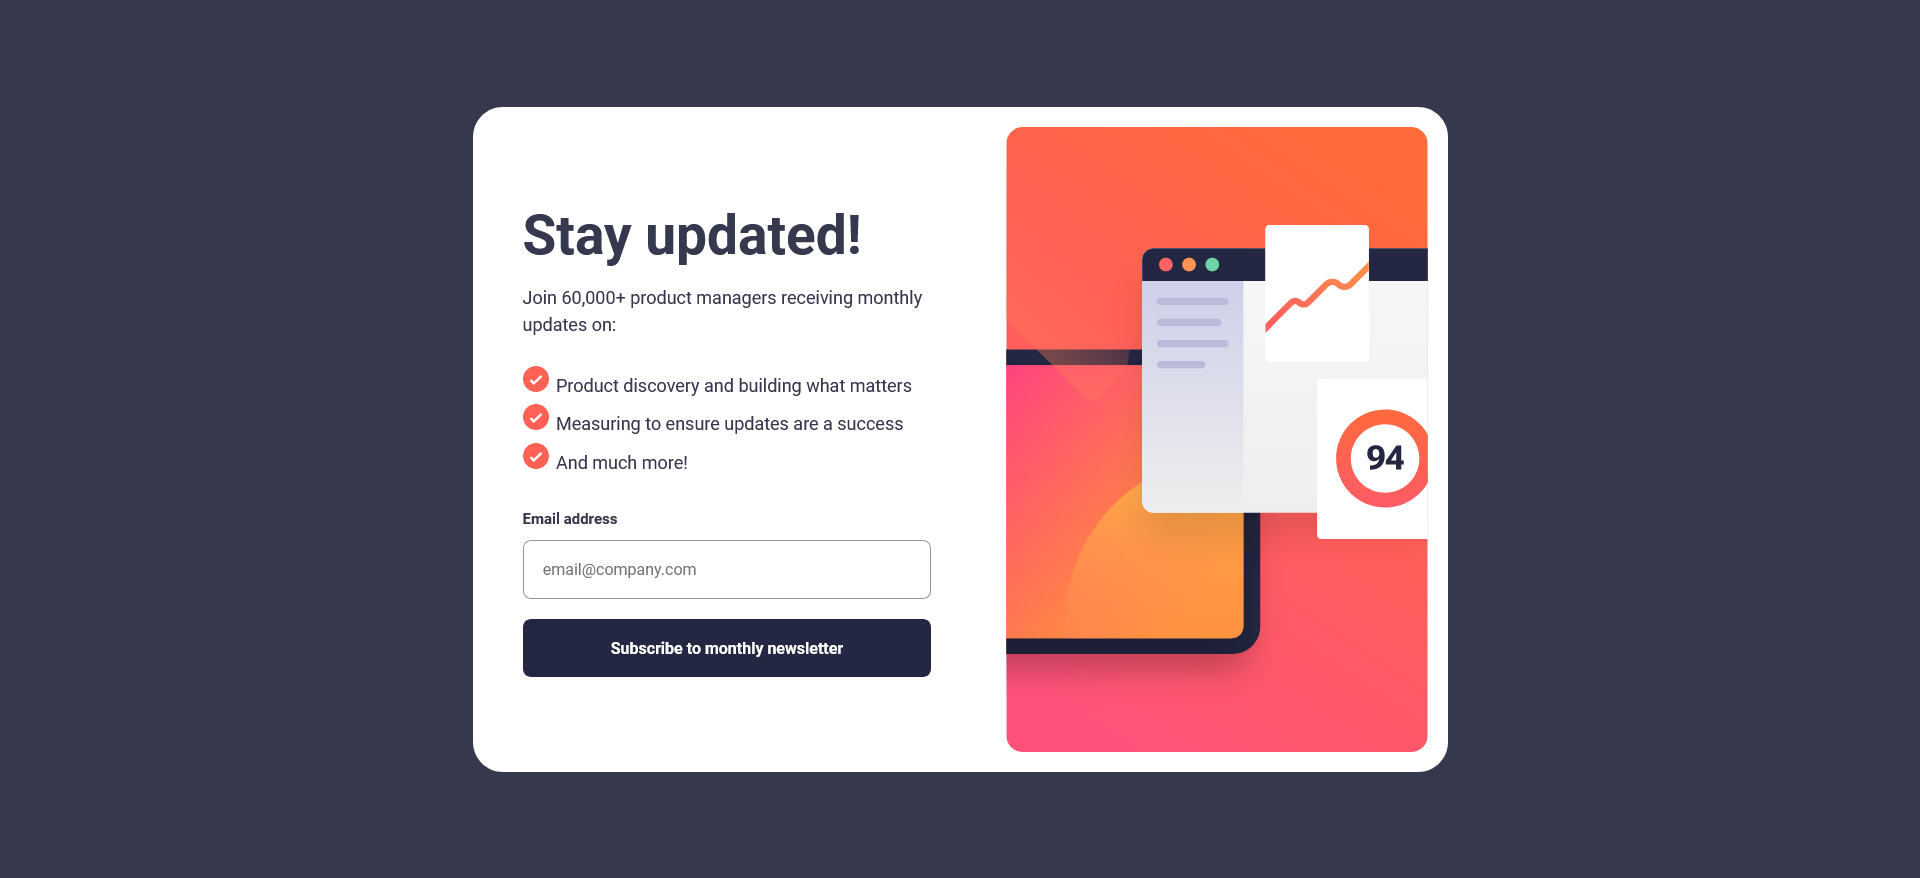
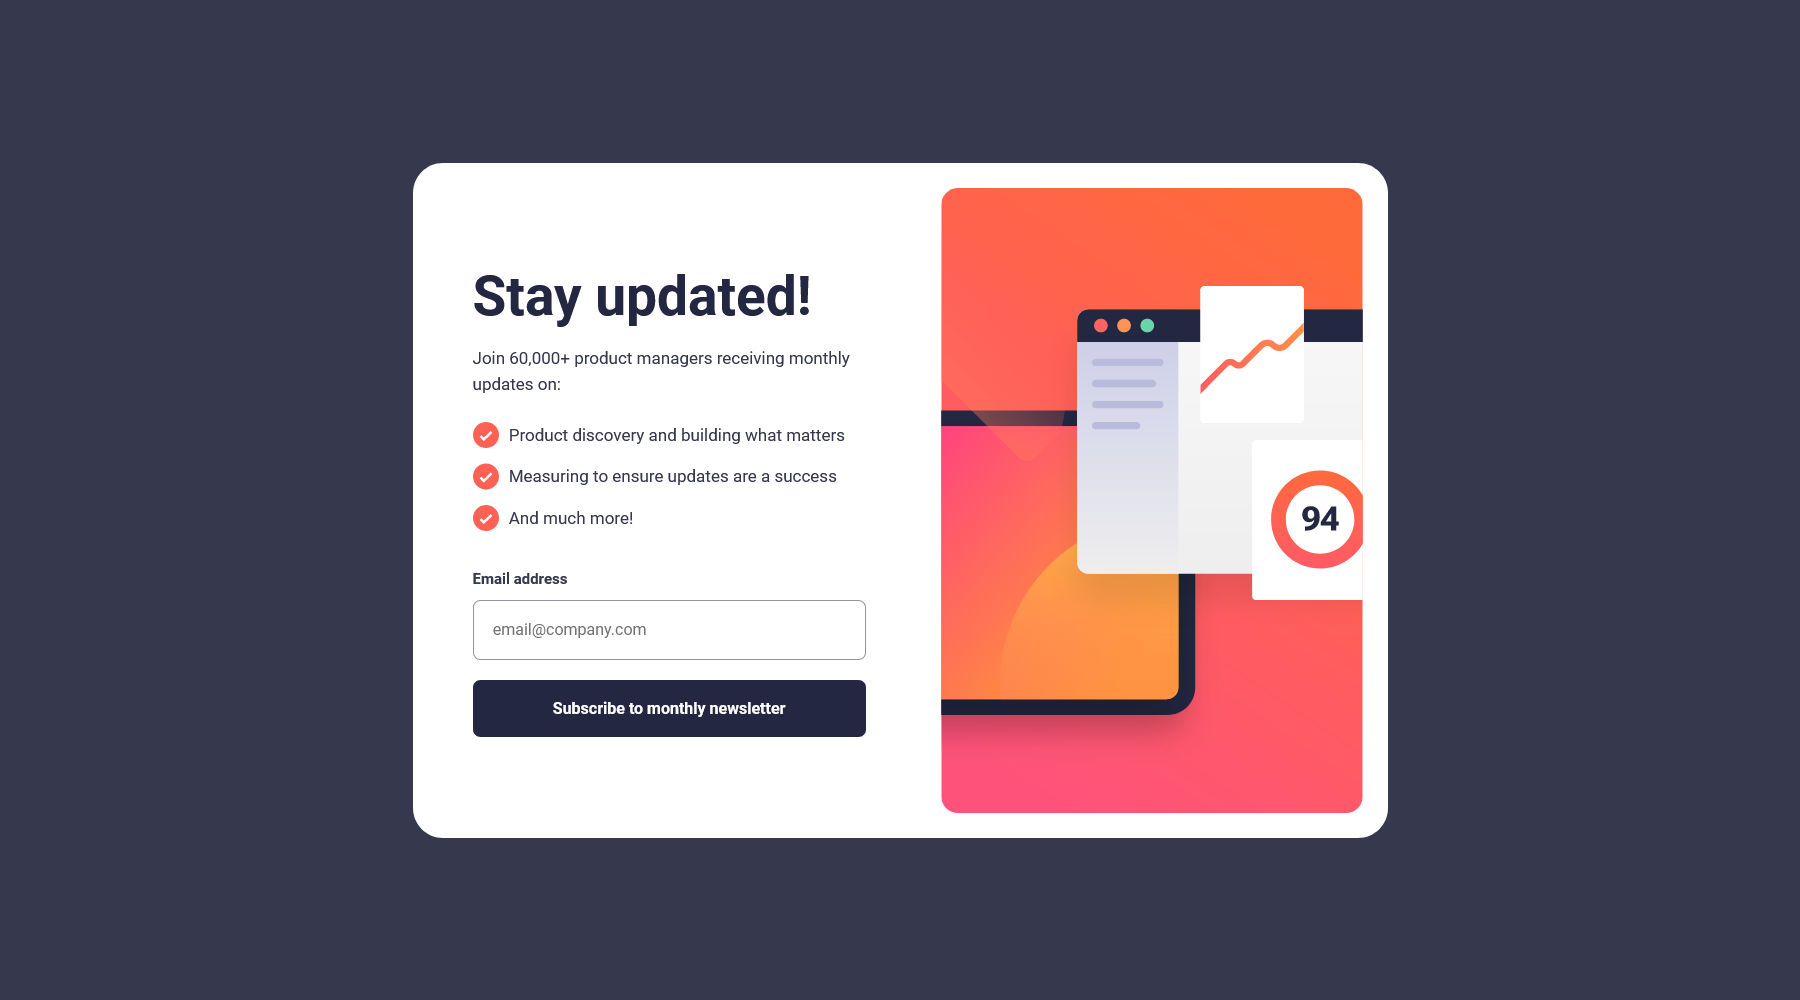
changes to readme

Changed region(s): [[0.2178, 0.123, 0.7778, 0.8918]]

diff --git a/stylesheets/completed.css b/stylesheets/completed.css
@@ -48,7 +48,7 @@ body {
 .container__main__text {
   line-height: 165%;
   color: var(--dark-slate-grey);
-  font-size: 0.95em;
+  font-size: 0.9rem;
   margin-bottom: 2.5em;
 }
 
@@ -59,10 +59,10 @@ body {
 .container__button {
   text-align: center;
   text-decoration: none;
-  padding: 1.3em;
+  padding: 1.1em;
   width: 100%;
   border-radius: 0.5em;
-  font-size: 0.95em;
+  font-size: 0.9rem;
 
   /* to prevent white flashing when i hover, i use a linear gradient here with only 1 color*/
   background: linear-gradient(var(--dark-slate-grey), var(--dark-slate-grey));
@@ -96,5 +96,6 @@ body {
 
   .container__button {
     font-size: 0.9em;
+    padding: 1.3em;
   }
 }

diff --git a/README.md b/README.md
@@ -15,7 +15,6 @@ This is a solution to the [Newsletter signup form challenge on Frontend Mentor](
 - [My process 🏗](#my-process-🏗)
   - [Built with 🛠](#built-with-🛠)
   - [What I learned 🧠](#what-i-learned-🧠)
-  - [Continued development 🚀](#continued-development-🚀)
   - [Useful resources 📚](#useful-resources-📚)
 - [Acknowledgments 🙏](#acknowledgments-🙏)
 - [Contact 📧](#contact-📧)
@@ -41,7 +40,7 @@ _My solution (Desktop):_
 
 ![image of desktop solution](./readme-images/desktop.png)
 
-_NB: I make the card a bit smaller by setting a `max-height` for the image. This is so it looks good even on narrower desktop screens(like mine)_ 
+_NB: I make the card a bit smaller by setting a `max-height` for the image. This is so it looks good even on narrower desktop screens(like mine)_
 
 _Success (Desktop):_
 
@@ -49,11 +48,11 @@ _Success (Desktop):_
 
 _My solution (Mobile)_
 
-![image of mobile solution]()
+![image of mobile solution](./readme-images/mobile.png)
 
 _Success (Mobile):_
 
-![image of success page mobile]()
+![image of success page mobile](./readme-images/mobile-success.png)
 
 ### Links 🔗
 
@@ -101,10 +100,6 @@ input:invalid {
 ---
 
 I also organised my files a bit more than in other projects _(because of the 2 html, css and js files i use instead of the usual 1)_
-
-### Continued development 🚀
-
-placeholder
 
 ### Useful resources 📚
 
